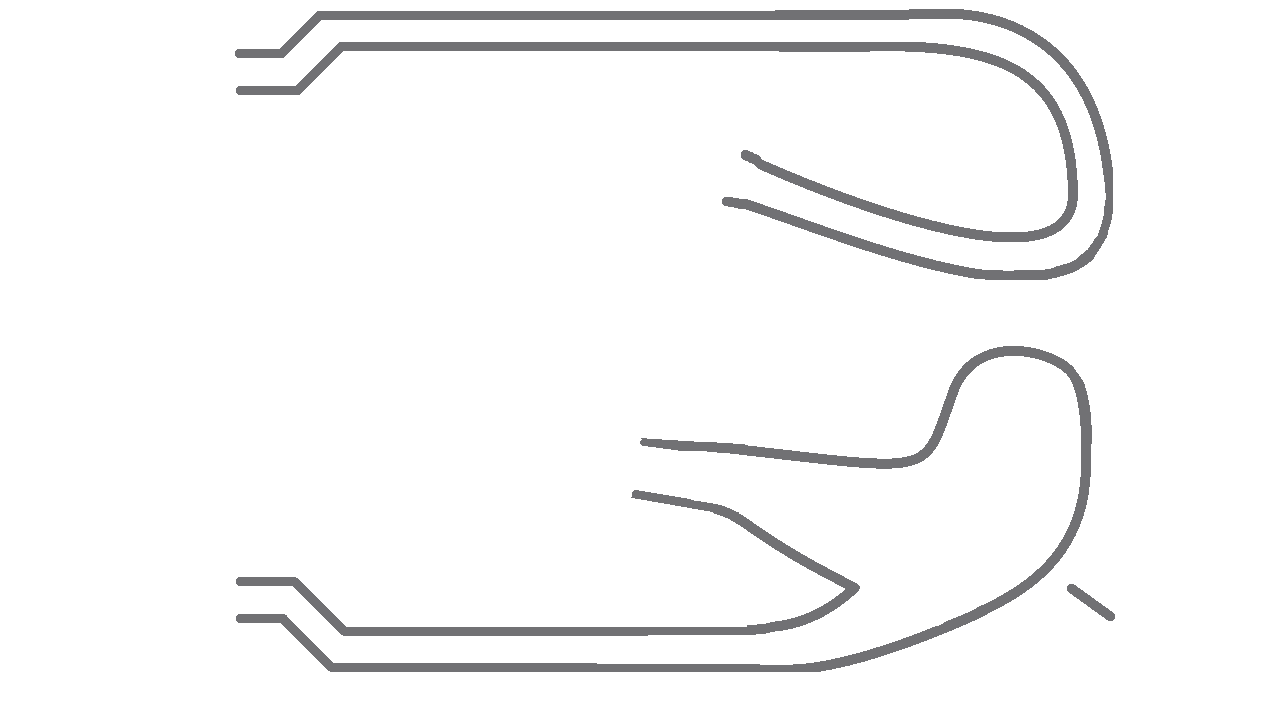
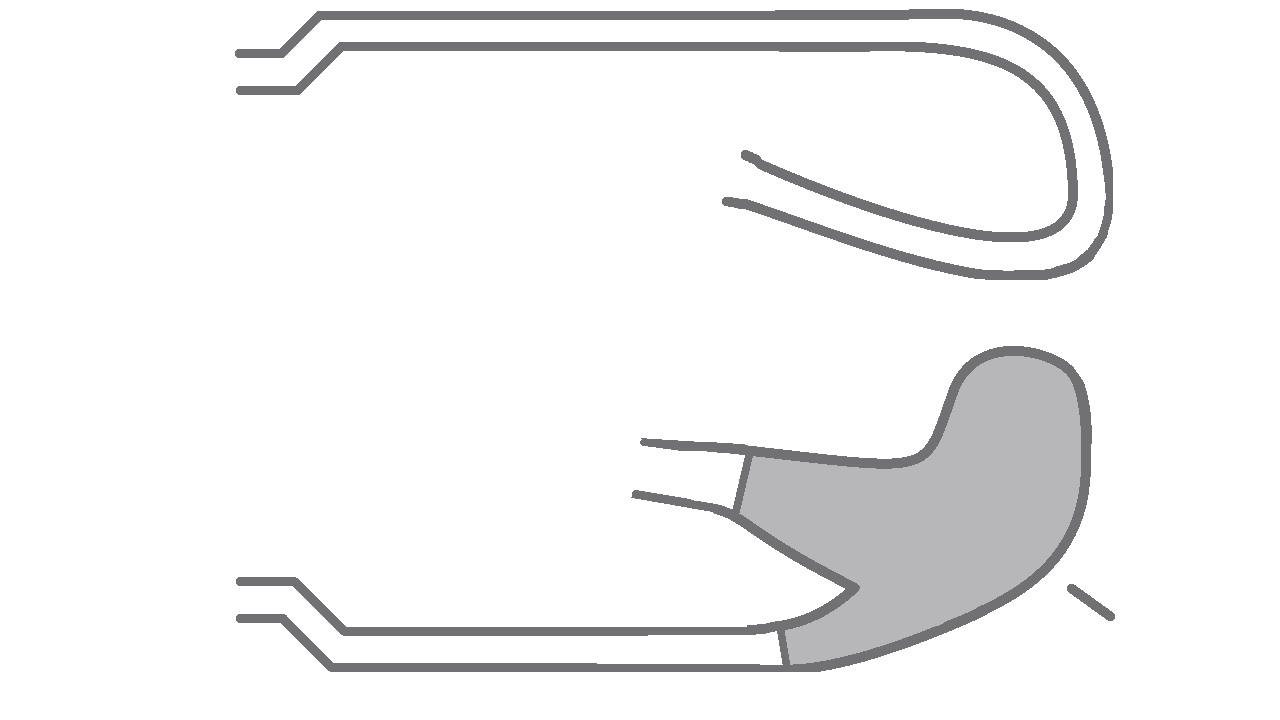
add transparency to layer and fix issue where pinball is rendered below the layer it is on

Changed region(s): [[0.5625, 0.4889, 0.8438, 0.9167]]

diff --git a/games/pinball/source/pinball.cpp b/games/pinball/source/pinball.cpp
@@ -24,7 +24,7 @@ Pinball::Pinball(C2DRenderer* renderer, b2World* world) {
 #else
     m_texture = new C2DTexture(renderer->getIo()->getDataReadPath() + "pinball.png");
     m_texture->setOrigin(Origin::Center);
-    m_texture->setLayer(m_currentLayerID);
+    m_texture->setLayer(m_currentLayerID * 2);
     renderer->add(m_texture);
 #endif
 }
@@ -64,7 +64,9 @@ int Pinball::getLayerID() {
 void Pinball::setLayerID(int layerID) {
     m_currentLayerID = layerID;
 #if !DEBUG
-    m_texture->setLayer(m_currentLayerID);
+    // Multiply by 2 because rendering layers have a gap so the pinball
+    // can be rendered above the layer it is on.
+    m_texture->setLayer(m_currentLayerID * 2 + 1);
 #endif
     b2Filter filterData = m_fixture->GetFilterData();
     filterData.maskBits = 1 << layerID;

diff --git a/games/pinball/source/layer.cpp b/games/pinball/source/layer.cpp
@@ -7,7 +7,9 @@ Layer::Layer(C2DRenderer* renderer, b2World& world, int layerID) {
     }
 #if !DEBUG
     auto* texture = new C2DTexture(renderer->getIo()->getDataReadPath() + "layer" + std::to_string(layerID) + ".png");
-    texture->setLayer(layerID);
+    // Multiply by 2 because rendering layers have a gap so the pinball
+    // can be rendered above the layer it is on.
+    texture->setLayer(layerID * 2);
     renderer->add(texture);
 #endif
 }
